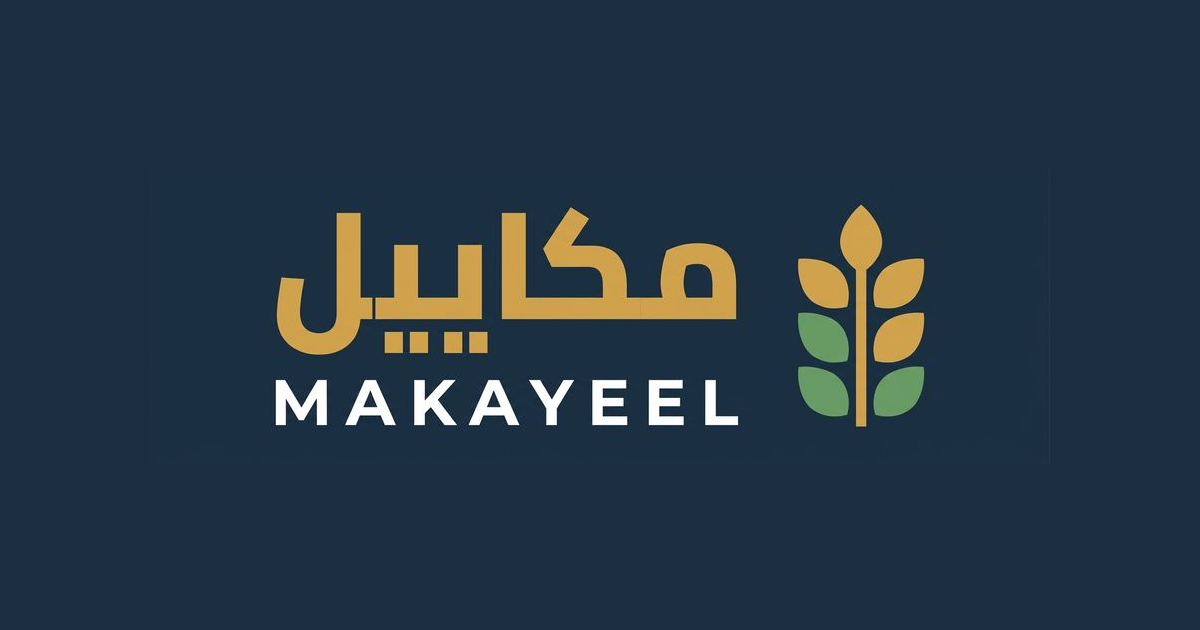
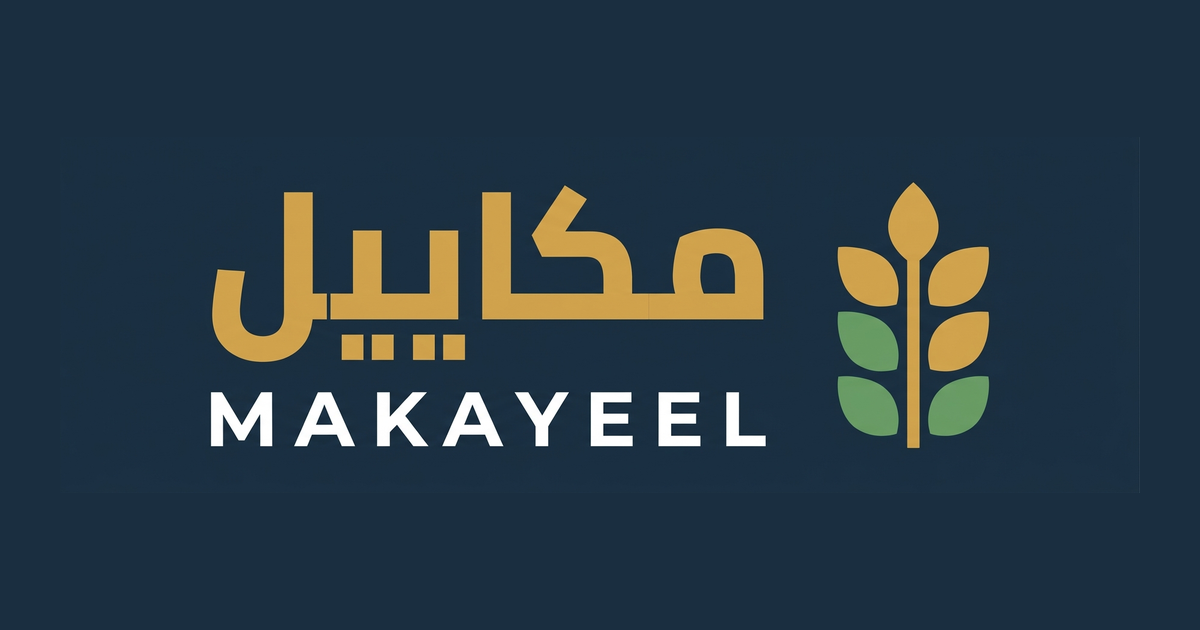
feat(brand): roll out v2 wheat-mark across web + bot profile
- Regenerate web favicons + OG image from brand/v2 assets
- Update logo.svg/favicon.svg to v2 mandorla geometry
- Update <Logo> React component (dark-mode aware stem)
- Add scripts/sync_brand_v2.py for re-runs
- Generate 640x640 bot profile photo (manual BotFather upload)

Changed region(s): [[0.1542, 0.2714, 0.8325, 0.7238], [0.1542, 0.6032, 0.6475, 0.7238]]

diff --git a/packages/ui/src/components/logo.tsx b/packages/ui/src/components/logo.tsx
@@ -6,34 +6,44 @@ interface LogoProps extends React.SVGAttributes<SVGElement> {
 }
 
 /**
- * The Makayeel mark — a stylized wheat ear in solid mandorla grains.
- * Wheat-Gold stem and apex + 6 gold grains (top three pairs) + 4 harvest-green
- * grains (bottom two pairs). Designed to survive 40×40 thumbnails and the
- * WhatsApp circle crop. v2 — May 2026.
+ * The Makayeel mark — v2 (May 2026).
+ * Stylized wheat ear: navy stem (gold in dark mode) + gold top tip + 3 gold leaf
+ * pairs + 2 harvest-green leaf pairs. Mandorla (almond-lens) leaves angled outward.
+ * Survives 16×16 favicons and WhatsApp circle crops.
  */
 export function Logo({ size = 40, className, ...rest }: LogoProps) {
   return (
     <svg
       width={size}
       height={size}
-      viewBox="0 0 48 48"
+      viewBox="0 0 64 64"
       fill="none"
       className={cn(className)}
       aria-hidden="true"
       {...rest}
     >
-      <rect x="23" y="6" width="2" height="36" rx="1" fill="#D4A24C" />
-      <path d="M24 2 Q26.2 5 24 8 Q21.8 5 24 2 Z" fill="#D4A24C" />
-      <path d="M13 12 Q17 9.8 21 12 Q17 14.2 13 12 Z" fill="#D4A24C" />
-      <path d="M27 12 Q31 9.8 35 12 Q31 14.2 27 12 Z" fill="#D4A24C" />
-      <path d="M11 18 Q16 15.6 21 18 Q16 20.4 11 18 Z" fill="#D4A24C" />
-      <path d="M27 18 Q32 15.6 37 18 Q32 20.4 27 18 Z" fill="#D4A24C" />
-      <path d="M9 24 Q15 21.4 21 24 Q15 26.6 9 24 Z" fill="#D4A24C" />
-      <path d="M27 24 Q33 21.4 39 24 Q33 26.6 27 24 Z" fill="#D4A24C" />
-      <path d="M8 31 Q14.5 28.2 21 31 Q14.5 33.8 8 31 Z" fill="#6BA368" />
-      <path d="M27 31 Q33.5 28.2 40 31 Q33.5 33.8 27 31 Z" fill="#6BA368" />
-      <path d="M7 38 Q14 35 21 38 Q14 41 7 38 Z" fill="#6BA368" />
-      <path d="M27 38 Q34 35 41 38 Q34 41 27 38 Z" fill="#6BA368" />
+      <rect
+        x="30.8"
+        y="6"
+        width="2.4"
+        height="52"
+        rx="1.2"
+        className="fill-deep-navy dark:fill-wheat-gold"
+      />
+      <path
+        d="M32 4 C34.6 7 34.6 10.5 32 13 C29.4 10.5 29.4 7 32 4 Z"
+        fill="#D4A24C"
+      />
+      <ellipse cx="25" cy="16" rx="6.5" ry="3.4" transform="rotate(-30 25 16)" fill="#D4A24C" />
+      <ellipse cx="39" cy="16" rx="6.5" ry="3.4" transform="rotate(30 39 16)" fill="#D4A24C" />
+      <ellipse cx="23.5" cy="22" rx="7.2" ry="3.7" transform="rotate(-30 23.5 22)" fill="#D4A24C" />
+      <ellipse cx="40.5" cy="22" rx="7.2" ry="3.7" transform="rotate(30 40.5 22)" fill="#D4A24C" />
+      <ellipse cx="22" cy="29" rx="8" ry="4" transform="rotate(-30 22 29)" fill="#D4A24C" />
+      <ellipse cx="42" cy="29" rx="8" ry="4" transform="rotate(30 42 29)" fill="#D4A24C" />
+      <ellipse cx="20.5" cy="38" rx="9" ry="4.4" transform="rotate(-30 20.5 38)" fill="#6BA368" />
+      <ellipse cx="43.5" cy="38" rx="9" ry="4.4" transform="rotate(30 43.5 38)" fill="#6BA368" />
+      <ellipse cx="19" cy="48" rx="10" ry="4.8" transform="rotate(-30 19 48)" fill="#6BA368" />
+      <ellipse cx="45" cy="48" rx="10" ry="4.8" transform="rotate(30 45 48)" fill="#6BA368" />
     </svg>
   );
 }
@@ -41,7 +51,7 @@ export function Logo({ size = 40, className, ...rest }: LogoProps) {
 export function Wordmark({ className }: { className?: string }) {
   return (
     <span className={cn('inline-flex flex-col leading-none', className)}>
-      <span className="text-[1.375rem] font-medium text-deep-navy">مكاييل</span>
+      <span className="text-[1.375rem] font-medium text-deep-navy dark:text-paper-white">مكاييل</span>
       <span
         className="mt-0.5 text-[0.6875rem] text-wheat-gold"
         style={{ fontFamily: 'var(--font-latin)', letterSpacing: '7px' }}

diff --git a/scripts/sync_brand_v2.py b/scripts/sync_brand_v2.py
@@ -1,0 +1,111 @@
+"""
+Sync brand/v2 assets into apps/web/public/ at the right sizes,
+and emit a Telegram-ready 640x640 mark for BotFather.
+
+Inputs (from D:/Projects/Makayeel/brand/v2):
+  - makayeel-mark-onwhite-1024.png
+  - makayeel-lockup-horizontal-onnavy.png
+
+Outputs (web):
+  - apps/web/public/icon-16.png        (16x16)
+  - apps/web/public/icon-32.png        (32x32)
+  - apps/web/public/icon-192.png       (192x192)
+  - apps/web/public/icon-512.png       (512x512)
+  - apps/web/public/apple-icon.png     (180x180)
+  - apps/web/public/opengraph-image.png (1200x630, navy bg with lockup centered)
+
+Outputs (bot):
+  - brand/v2/makayeel-bot-profile-640.png (640x640, white bg, mark centered — upload via @BotFather /setuserpic)
+"""
+
+from pathlib import Path
+from PIL import Image
+
+ROOT = Path("D:/Projects/Makayeel")
+BRAND = ROOT / "brand" / "v2"
+WEB_PUBLIC = ROOT / "apps" / "web" / "public"
+
+MARK = BRAND / "makayeel-mark-onwhite-1024.png"
+LOCKUP_NAVY = BRAND / "makayeel-lockup-horizontal-onnavy.png"
+
+NAVY = (26, 46, 64)  # #1A2E40
+
+assert MARK.exists(), f"missing {MARK}"
+assert LOCKUP_NAVY.exists(), f"missing {LOCKUP_NAVY}"
+assert WEB_PUBLIC.exists(), f"missing {WEB_PUBLIC}"
+
+
+def resize_square(src: Image.Image, size: int) -> Image.Image:
+    return src.resize((size, size), Image.LANCZOS)
+
+
+def make_icons():
+    mark = Image.open(MARK).convert("RGBA")
+
+    sizes = {
+        "icon-16.png": 16,
+        "icon-32.png": 32,
+        "icon-192.png": 192,
+        "icon-512.png": 512,
+        "apple-icon.png": 180,
+    }
+    for name, size in sizes.items():
+        out = WEB_PUBLIC / name
+        resized = resize_square(mark, size)
+        resized.save(out, "PNG", optimize=True)
+        print(f"  {name:24s} -> {size}x{size}  ({out.stat().st_size // 1024} KB)")
+
+
+def make_og_image():
+    """
+    Build a 1200x630 OG image with the navy lockup centered.
+    The lockup PNG is 2400x800; we scale to fit width with padding then center on navy bg.
+    """
+    lockup = Image.open(LOCKUP_NAVY).convert("RGBA")
+    canvas = Image.new("RGB", (1200, 630), NAVY)
+
+    target_w = 1080  # 60px padding each side
+    scale = target_w / lockup.width
+    new_h = int(lockup.height * scale)
+    if new_h > 540:  # cap height with vertical padding
+        scale = 540 / lockup.height
+        target_w = int(lockup.width * scale)
+        new_h = 540
+    resized = lockup.resize((target_w, new_h), Image.LANCZOS)
+
+    x = (1200 - target_w) // 2
+    y = (630 - new_h) // 2
+    canvas.paste(resized, (x, y), resized)
+
+    out = WEB_PUBLIC / "opengraph-image.png"
+    canvas.save(out, "PNG", optimize=True)
+    print(f"  opengraph-image.png      -> 1200x630 ({out.stat().st_size // 1024} KB)")
+
+
+def make_bot_profile():
+    """640x640 square, white bg, mark centered with padding — suitable for @BotFather /setuserpic."""
+    mark = Image.open(MARK).convert("RGBA")
+    canvas = Image.new("RGB", (640, 640), (255, 255, 255))
+
+    target = 560  # 40px padding each side
+    scale = target / max(mark.width, mark.height)
+    new_w = int(mark.width * scale)
+    new_h = int(mark.height * scale)
+    resized = mark.resize((new_w, new_h), Image.LANCZOS)
+
+    x = (640 - new_w) // 2
+    y = (640 - new_h) // 2
+    canvas.paste(resized, (x, y), resized)
+
+    out = BRAND / "makayeel-bot-profile-640.png"
+    canvas.save(out, "PNG", optimize=True)
+    print(f"  makayeel-bot-profile-640.png -> 640x640 ({out.stat().st_size // 1024} KB)")
+
+
+print("== Generating web icons ==")
+make_icons()
+print("\n== Generating OG image ==")
+make_og_image()
+print("\n== Generating bot profile photo ==")
+make_bot_profile()
+print("\nDone.")
